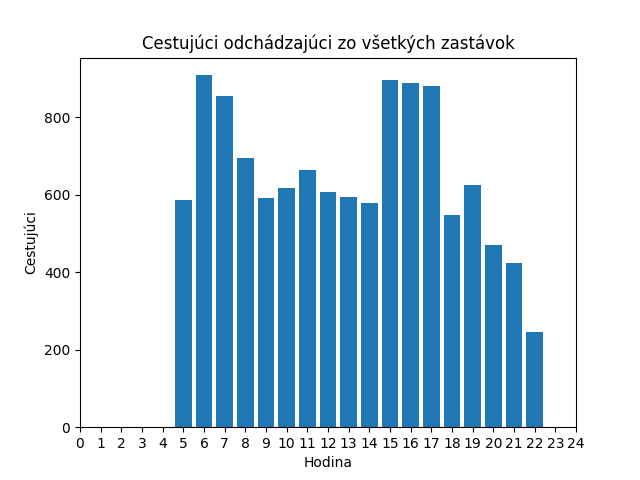
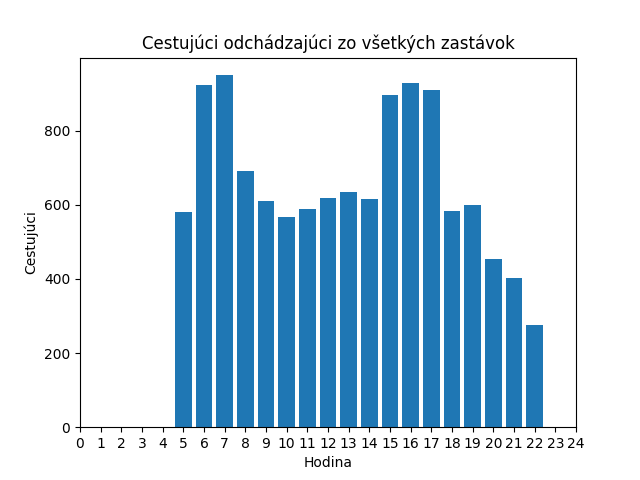
feat: genetics

diff --git a/src/Genetics.py b/src/Genetics.py
@@ -1,24 +1,97 @@
+from RandomNumberGenerator import RandomNumberGenerator
+from Simulation import Simulation
+from models import TimeTable
+
+
 class Genetics:
-    def __init__(self, populationSize, mutationRate, crossoverRate, elitismCount):
+    # INIT
+    def __init__(self, populationSize, mutationRate, crossoverRate, elitismCount, busStops):
         self.populationSize = populationSize
         self.mutationRate = mutationRate
         self.crossoverRate = crossoverRate
         self.elitismCount = elitismCount
+        self.busStops = busStops
         self.generation = []
+        self.initPopulation()
 
-    def initPopulation():
-        pass
+    # METHODS
+    def initPopulation(self):
+        for i in range(self.populationSize):
+            self.generation.append(Individual(self.busStops))
 
-    def fitness():
-        pass
+    def crossover(self, parent1, parent2):
+        index = RandomNumberGenerator.integers(0, 24)
+        newChromosome = parent1.chromosome[:index] + parent2.chromosome[index:]
+        return Individual(parent1.busStops, newChromosome)
+    
+    def parentSelection(self):
+        parent1 = self.generation[RandomNumberGenerator.integers(0, self.populationSize)]
+        parent2 = self.generation[RandomNumberGenerator.integers(0, self.populationSize)]
+        if parent1.fitness < parent2.fitness:
+            return parent1
+        return parent2
+        
+    def updateGeneration(self):
+        for i in range(self.populationSize):
+            self.generation[i].calculateFitness()
+        self.generation.sort(key=lambda x: x.fitness)
+        
+        newGeneration = []
+        for i in range(self.elitismCount):
+            newGeneration.append(self.generation[i])
 
-    def mutate():
-        pass
+        for i in range(self.populationSize - self.elitismCount):
+            parent1 = self.parentSelection()
+            parent2 = self.parentSelection()
+            newGeneration.append(self.crossover(parent1, parent2))
 
-    def crossover():
-        pass
+        self.generation = newGeneration
 
-    def updateGeneration():
-        pass
+    # STR
+    def __str__(self):
+        output = ""
+        for individual in self.generation:
+            output += f"{individual}\n"
+        return output
 
     
+class Individual:
+    # INIT
+    def __init__(self, busStops, chromosome=None):
+        self.busStops = busStops
+        if chromosome is None:
+            self.chromosome = self.generateRandomChromosome()
+        else:
+            self.chromosome = chromosome
+        self.fitness = 0
+
+    # METHODS
+    def generateRandomChromosome(self):
+        chromosome = [0] * 24
+        for i in range(24):
+            chromosome[i] = RandomNumberGenerator.integers(0, 30)
+        return chromosome
+
+    def calculateFitness(self):
+        timeTable = TimeTable(self.chromosome)
+        stats = Simulation.run(0, 24*60, self.busStops, timeTable)
+
+        passengersWaitingForNextBusInPercent = stats.busStopStatistics.totalPassengersWaitingForNextBus / stats.busStopStatistics.totalPassengersArrived    # should be minimized
+        averagePassengerWaitingTime = stats.busStopStatistics.totalTimeSpentWaiting / stats.busStopStatistics.totalPassengersArrived                        # should be minimized
+        passangersLeftUnboardedInPercent = stats.busStopStatistics.totalPassangersLeftUnboarded / stats.busStopStatistics.totalPassengersArrived            # should be minimized
+        totalNumberOfBuses = stats.totalNumberOfBuses                                                                                                       # should be minimized                                                      
+        averageLoadDeviation = stats.busStatistics.averageLoadInPercent                                                                                     # should be minimized
+        if (averageLoadDeviation < 0.7):
+            averageLoadDeviation = 1 - averageLoadDeviation / 0.7;
+        else:
+            averageLoadDeviation = (averageLoadDeviation - 0.7) / 0.3;
+        
+        self.fitness = passengersWaitingForNextBusInPercent + averagePassengerWaitingTime + passangersLeftUnboardedInPercent + totalNumberOfBuses + averageLoadDeviation
+
+    def mutate(self):
+        index = RandomNumberGenerator.integers(0, 24)
+        self.chromosome[index] = RandomNumberGenerator.integers(0, 30)
+
+    # STR
+    def __str__(self):
+        return f"{self.chromosome}: {self.fitness}"

diff --git a/src/models.py b/src/models.py
@@ -105,6 +105,9 @@ class TimeTable:
     # INIT
     def __init__(self):
         self.rows = []
+    def __init__(self, chromosome):
+        self.rows = []
+        self.generateFromChromosome(chromosome)
 
     class TimeTableRow:
         # INIT
@@ -122,6 +125,20 @@ class TimeTable:
             for minute in row.minutes:
                 times.append(row.hour * 60 + minute)
         return times
+    
+    def getChromosome(self):
+        chromosome = [0] * 24
+        for row in self.rows:
+            chromosome[row.hour] = len(row.minutes)
+        return chromosome
+    
+    def generateFromChromosome(self, chromosome):
+        for i in range(len(chromosome)):
+            if chromosome[i] != "0":
+                # generate array of minutes equally distributed in one hour based on number in parts[i]
+                minutes = [int((j + 1) * 60 / (int(chromosome[i]) + 1)) for j in range(int(chromosome[i]))]
+                self.addRow(i, minutes)
+
 
     def __str__(self):
         return "\n".join([f"{row.hour:02}: " + ", ".join([f"{minute:02}" for minute in row.minutes]) for row in self.rows])

diff --git a/src/main.py b/src/main.py
@@ -1,15 +1,19 @@
 import sys
+from Genetics import Genetics
 from InputParser import InputParser
-from EventCalendar import EventCalendar, Event
-from Simulation import Simulation
-from Statistics import Statistics
-from models import Bus, BusStop
+from models import TimeTable
 
-# initialize variables
-# parse bus stops input file
 busStops = InputParser.parseBusStopsFromFile(sys.argv[1])
-# parse time table input file
-timeTable = InputParser.parseTimeTableFromFile(sys.argv[2])
-Simulation.run(0, 24*60, busStops, timeTable)
+# timeTable = InputParser.parseTimeTableFromFile(sys.argv[2])
+# Simulation.run(0, 24*60, busStops, timeTable)
 
+genetics = Genetics(20, 0.01, 0.9, 2, busStops)
+
+
+for i in range(500):
+    print(str(i) + " generation\n")
+    genetics.updateGeneration()
+
+timeTable = TimeTable(genetics.generation[0].chromosome)
+print(timeTable)
 

diff --git a/src/RandomNumberGenerator.py b/src/RandomNumberGenerator.py
@@ -8,3 +8,9 @@ class RandomNumberGenerator:
     @staticmethod
     def exponential(scale=1.0, size=None):
         return RandomNumberGenerator._rng.exponential(scale=scale, size=size)
+    
+    def uniform(low=0.0, high=1.0, size=None):
+        return RandomNumberGenerator._rng.uniform(low=low, high=high, size=size)
+    
+    def integers(low=0, high=1, size=None):
+        return int(RandomNumberGenerator._rng.integers(low=low, high=high, size=size))

diff --git a/src/Simulation.py b/src/Simulation.py
@@ -81,8 +81,4 @@ class Simulation:
                 bus.stats.agregateTotal()
                 busStats.append(bus.stats)
 
-        Statistics(len(buses), busStopStats, busStats, "sk")
-
-        # print statistics
-        Statistics.print()
-        Statistics.saveAllGraphs()
+        return Statistics(len(buses), busStopStats, busStats, "sk")
